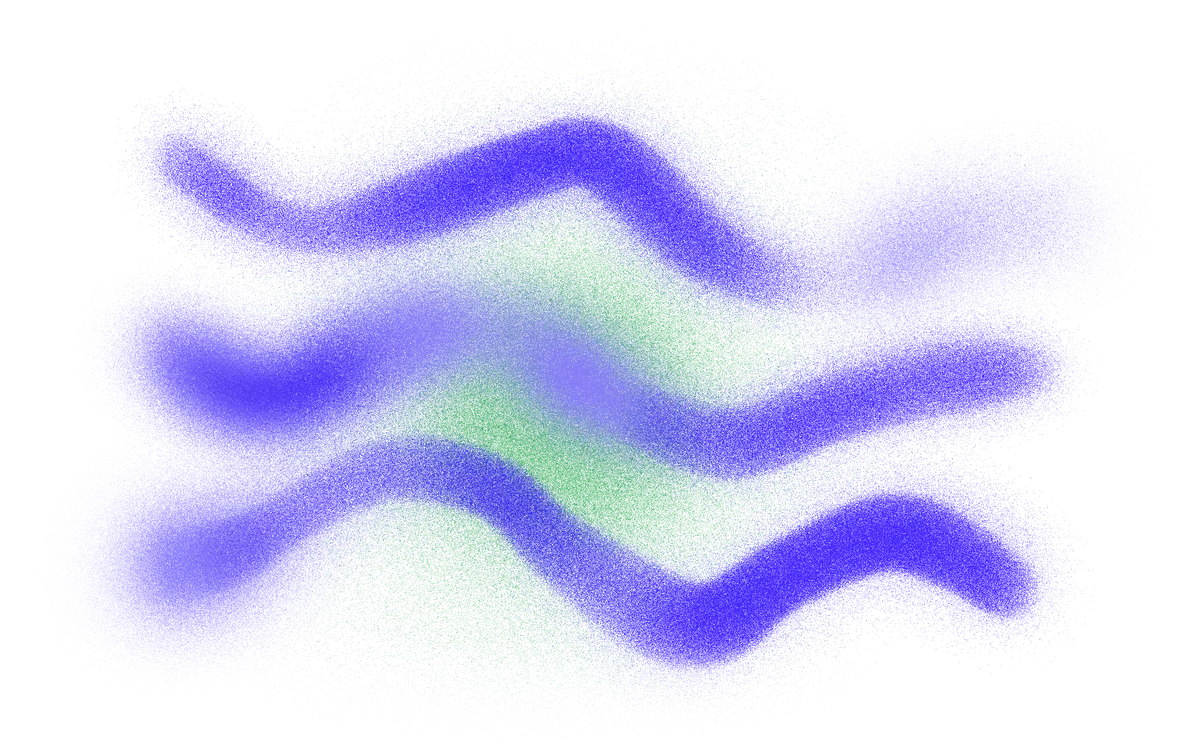
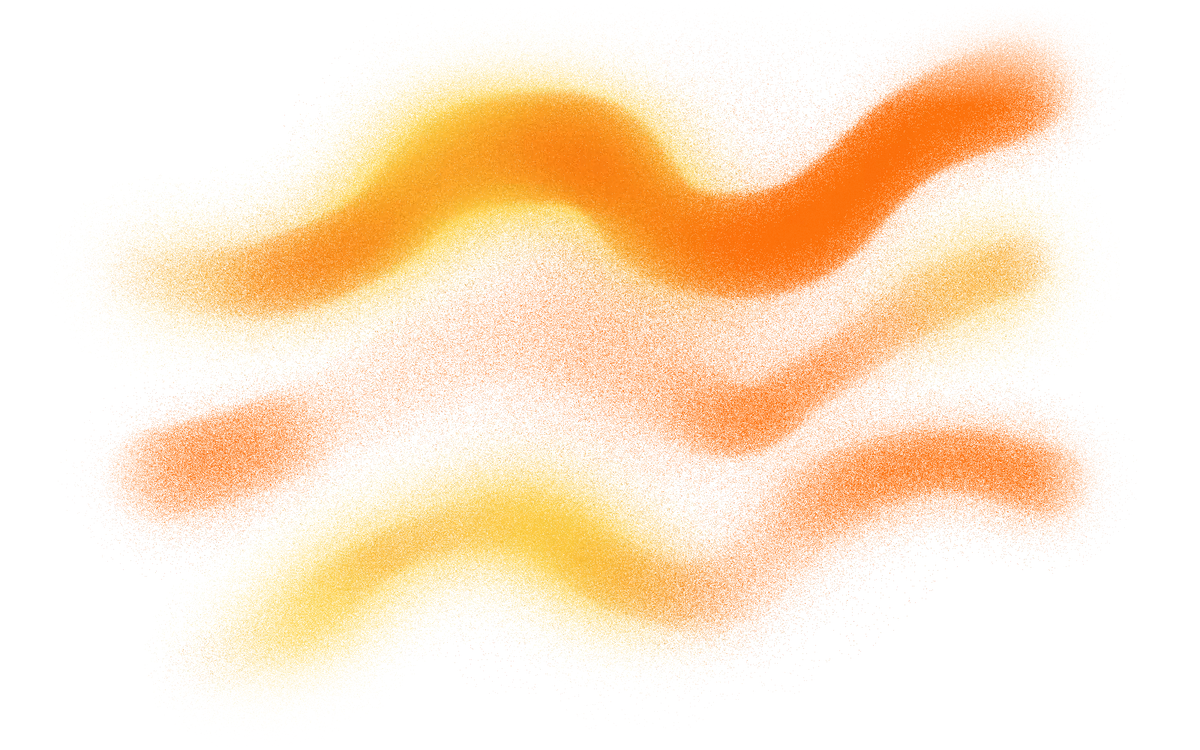
Doodles and strike in single colour families (lime/green, orange/yellow, pink/peach, blue/light blue, purple/lilac, red/orange); lime and orange lead

diff --git a/spray.js b/spray.js
@@ -62,7 +62,7 @@
     requestAnimationFrame(step);
   }
   /* the doodles: 18 baked pictures (1200 x 750) and their stroke paths, as fractions of the picture */
-  let FT = null; const doodles = () => FT || (FT = fetch('/img/spray/ft.json?v=2').then(r => r.json()).catch(() => null));
+  let FT = null; const doodles = () => FT || (FT = fetch('/img/spray/ft.json?v=3').then(r => r.json()).catch(() => null));
   const loadImg = src => new Promise((ok, no) => { const i = new Image(); i.decoding = 'async'; i.onload = () => ok(i); i.onerror = no; i.src = src; });
   const pickD = (() => { const used = []; return () => { let i; do i = Math.random() * 18 | 0; while (used.includes(i) && used.length < 18); used.push(i); return i; }; })();
   const pathsFor = (meta, w, h) => meta.strokes.map(({ r, p }) => ({ r: r * w, p: p.map(([x, y]) => [x * w, y * h]) }));
@@ -80,7 +80,7 @@
     };
     place(); addEventListener('resize', place); if (document.fonts) document.fonts.ready.then(place);
     const near = new IntersectionObserver(es => { if (!es.some(e => e.isIntersecting)) return; near.disconnect();
-      Promise.all([doodles(), loadImg('/img/spray/ft-' + di + '.webp?v=2')]).then(([meta, img]) => { pic = img;
+      Promise.all([doodles(), loadImg('/img/spray/ft-' + di + '.webp?v=3')]).then(([meta, img]) => { pic = img;
         onView(cv, () => { const g = cv.getContext('2d'), go = () => sprayOn(img, meta ? pathsFor(meta[di], img.width, img.height) : [], f => { g.clearRect(0, 0, cv.width, cv.height); g.drawImage(f, 0, 0, cv.width, cv.height); }, () => { shown = true; });
           if (!meta) { g.drawImage(img, 0, 0, cv.width, cv.height); shown = true; } else go(); }, 0.5);
       }).catch(() => {}); }, { rootMargin: '60% 0px' });
@@ -105,7 +105,7 @@
   /* ---------- the statement: a doodle sprayed over it, then a strike through "never" in another colour ----------
      The strike is worked out in the page in the halation spray (signed off 25 Nov 2026): it thickens and thins, fades and
      goes in and out of focus, a close-colour glow blooms off it in short stretches, in particles finer than a pixel. */
-  const PAIRS = [['#ff5a12', '#ffab85'], ['#ff3f8e', '#ffa3b8'], ['#1f3dff', '#7cc3ff'], ['#1f3dff', '#8a4dff'], ['#8fdc2a', '#2fae55'], ['#8b45ff', '#b0559e']];
+  const PAIRS = [['#ff6a00', '#ffd23f'], ['#c6f000', '#2fae55'], ['#ff6a00', '#ffd23f'], ['#c6f000', '#2fae55'], ['#ff3f8e', '#ffab85'], ['#1f3dff', '#7cc3ff'], ['#8b45ff', '#c9a8ff'], ['#ff3a1a', '#ff8a5a']];   /* one colour family each; lime and orange lead */
   const hue = h => { const [r, g, b] = [1, 3, 5].map(i => parseInt(h.slice(i, i + 2), 16) / 255), M = Math.max(r, g, b), n = Math.min(r, g, b), c = M - n; if (!c) return 0;
     const x = M === r ? ((g - b) / c) % 6 : M === g ? (b - r) / c + 2 : (r - g) / c + 4; return (x * 60 + 360) % 360; };
   /* the strike, worked out in idle slices: returns {ready, stroke, rect} via cb */
@@ -171,7 +171,7 @@
       sprayOn(img, meta ? pathsFor(meta[di], img.width, img.height) : [], f => { g.clearRect(0, 0, cv.width, cv.height); g.drawImage(f, x, y, w * d, h * d); }, () => setTimeout(strikeOn, 120));
     };
     const near = new IntersectionObserver(es => { if (!es.some(e => e.isIntersecting && cv.clientWidth)) return; near.disconnect();
-      (document.fonts ? document.fonts.ready : Promise.resolve()).then(() => Promise.all([doodles(), loadImg('/img/spray/ft-' + di + '.webp?v=2')])).then(([meta, img]) => {
+      (document.fonts ? document.fonts.ready : Promise.resolve()).then(() => Promise.all([doodles(), loadImg('/img/spray/ft-' + di + '.webp?v=3')])).then(([meta, img]) => {
         const c = meta && meta[di] ? meta[di].c : '#000000', pool = PAIRS.filter(([k]) => { const dh = Math.abs(hue(k) - hue(c)); return Math.min(dh, 360 - dh) > 70; });
         const pair = (pool.length ? pool : PAIRS)[Math.random() * (pool.length || PAIRS.length) | 0];
         strike(cv2, wrap, pair, sk => { parts = [meta, img, sk]; run(); });
